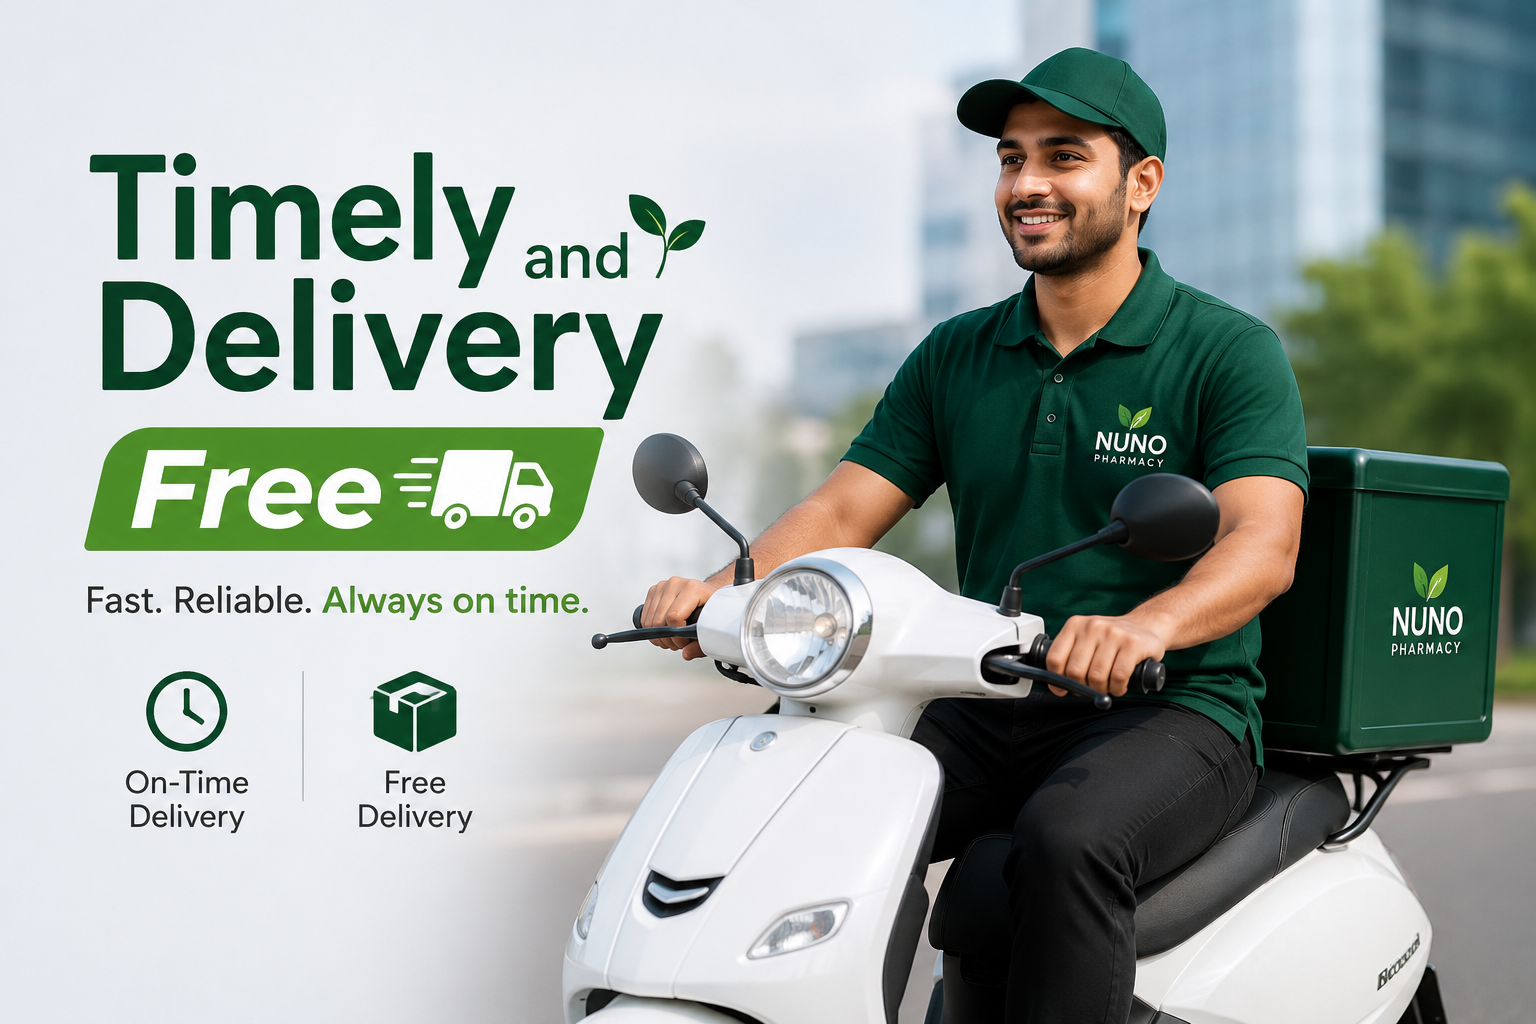
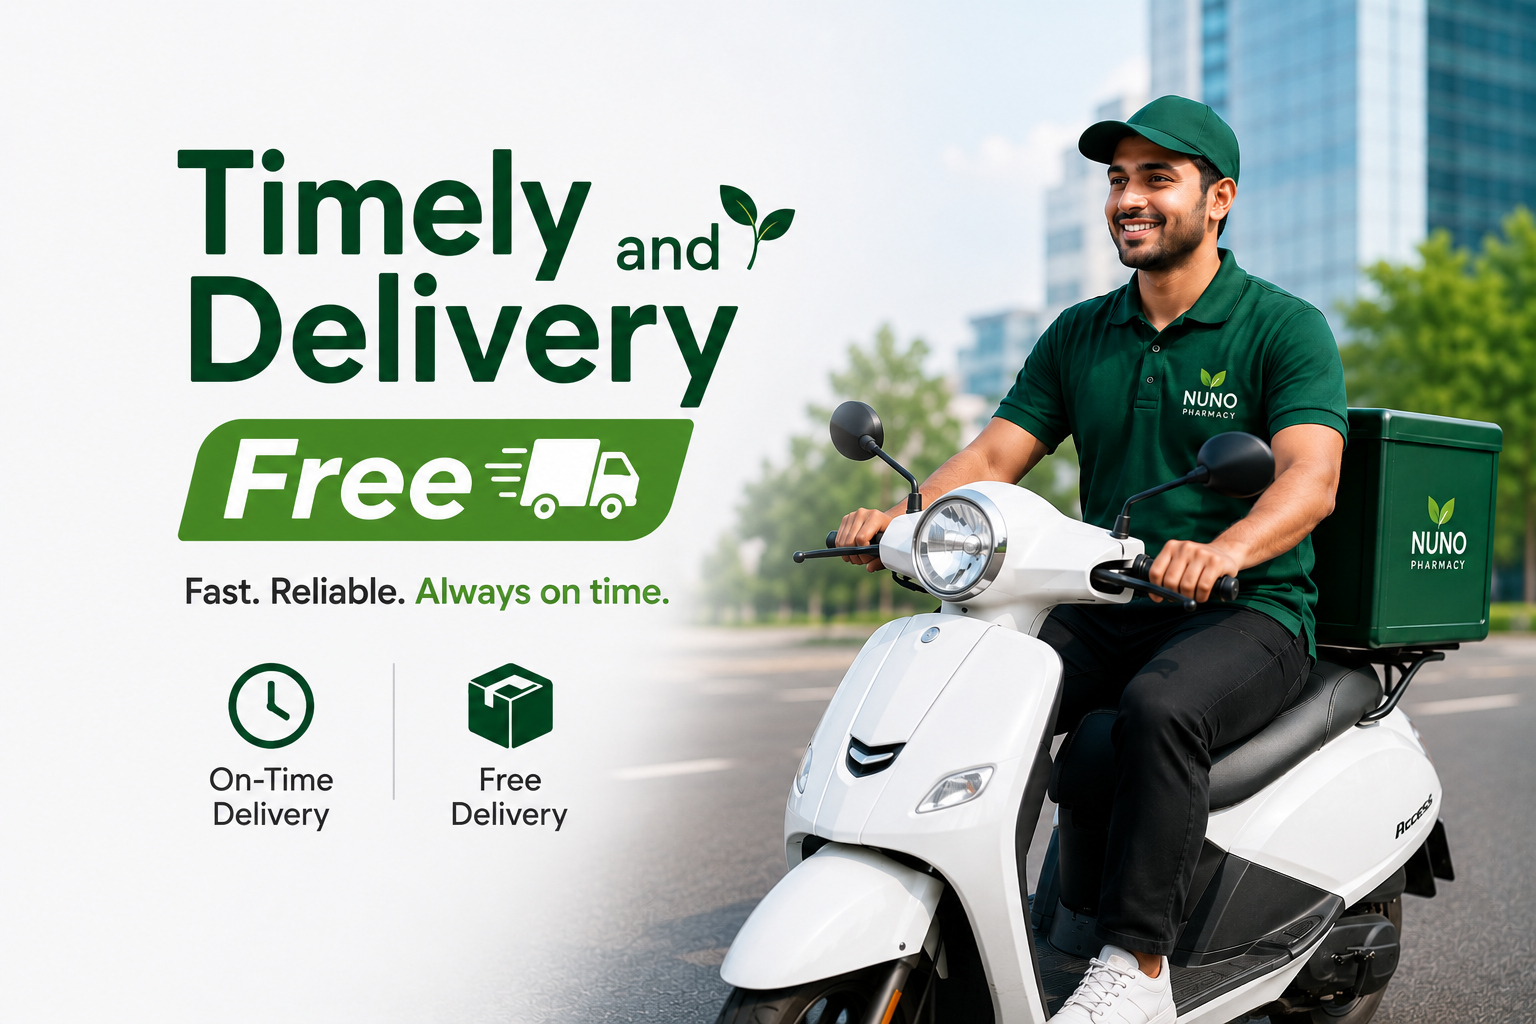
hero section

diff --git a/src/routes/index.tsx b/src/routes/index.tsx
@@ -84,6 +84,7 @@ function Index() {
   ];
   const marketingVideos = [clip1, clip2];
   const [activeSlide, setActiveSlide] = useState(0);
+  const [videoLayouts, setVideoLayouts] = useState<Record<string, "portrait" | "landscape">>({});
   const loadServicesFn = useServerFn(listServices);
   const bookServiceFn = useServerFn(createBooking);
   const [services, setServices] = useState<ServiceItem[]>([]);
@@ -134,6 +135,19 @@ function Index() {
     setQuickBookingForm({ customer_name: "", customer_phone: "", customer_email: "" });
     setQuickBookingStatus({ type: "idle", message: "" });
     setQuickBookingOpen(true);
+  };
+
+  const handlePromoVideoMetadata = (
+    event: React.SyntheticEvent<HTMLVideoElement>,
+    videoSource: string,
+  ) => {
+    const video = event.currentTarget;
+    const isPortrait = video.videoHeight > video.videoWidth;
+
+    setVideoLayouts((current) => ({
+      ...current,
+      [videoSource]: isPortrait ? "portrait" : "landscape",
+    }));
   };
 
   const resetQuickBookingDialog = () => {
@@ -407,22 +421,27 @@ function Index() {
 
           <Reveal delay={80}>
             <div className="mt-8 grid gap-4 md:grid-cols-2">
-              {marketingVideos.map((video, index) => (
-                <div
-                  key={video}
-                  className="overflow-hidden rounded-[var(--radius-3xl)] border border-border bg-card shadow-soft"
-                >
-                  <video
-                    className="aspect-video h-56 w-full object-cover md:h-64"
-                    src={video}
-                    autoPlay
-                    muted
-                    loop
-                    playsInline
-                    controls
-                  />
-                </div>
-              ))}
+              {marketingVideos.map((video) => {
+                const layout = videoLayouts[video] ?? "landscape";
+
+                return (
+                  <div
+                    key={video}
+                    className="flex items-center justify-center overflow-hidden rounded-[var(--radius-3xl)] border border-border bg-black shadow-soft"
+                  >
+                    <video
+                      className={`block bg-black object-contain ${layout === "portrait" ? "mx-auto max-h-[78vh] w-auto max-w-full" : "max-h-[70vh] w-full"}`}
+                      src={video}
+                      autoPlay
+                      muted
+                      loop
+                      playsInline
+                      controls
+                      onLoadedMetadata={(event) => handlePromoVideoMetadata(event, video)}
+                    />
+                  </div>
+                );
+              })}
             </div>
           </Reveal>
         </div>
